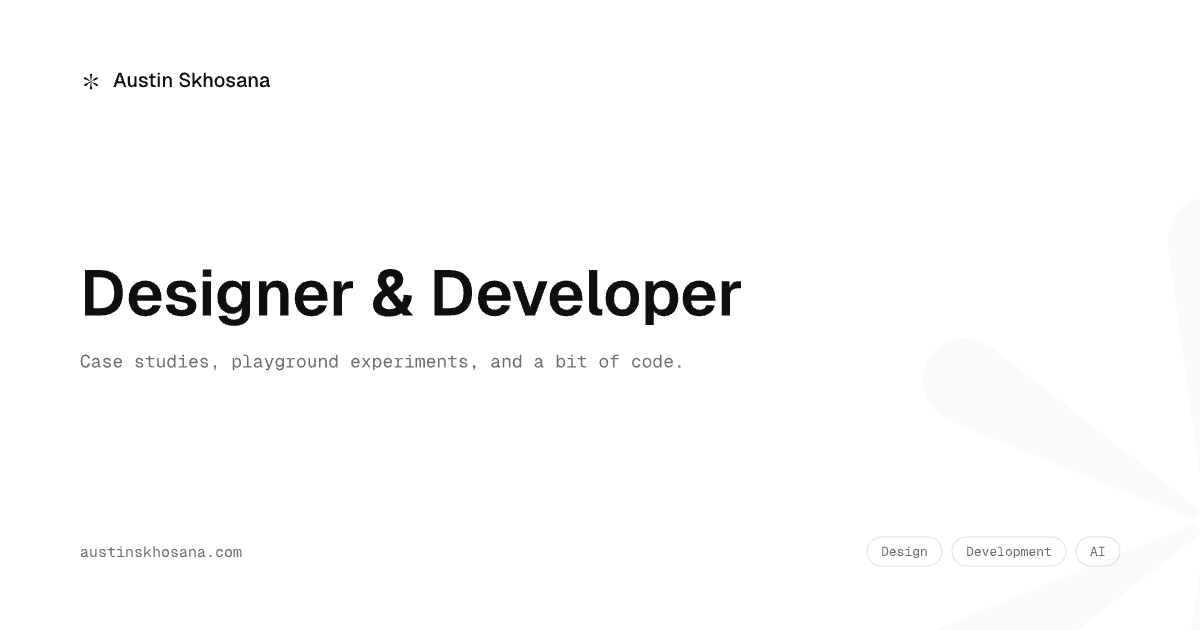
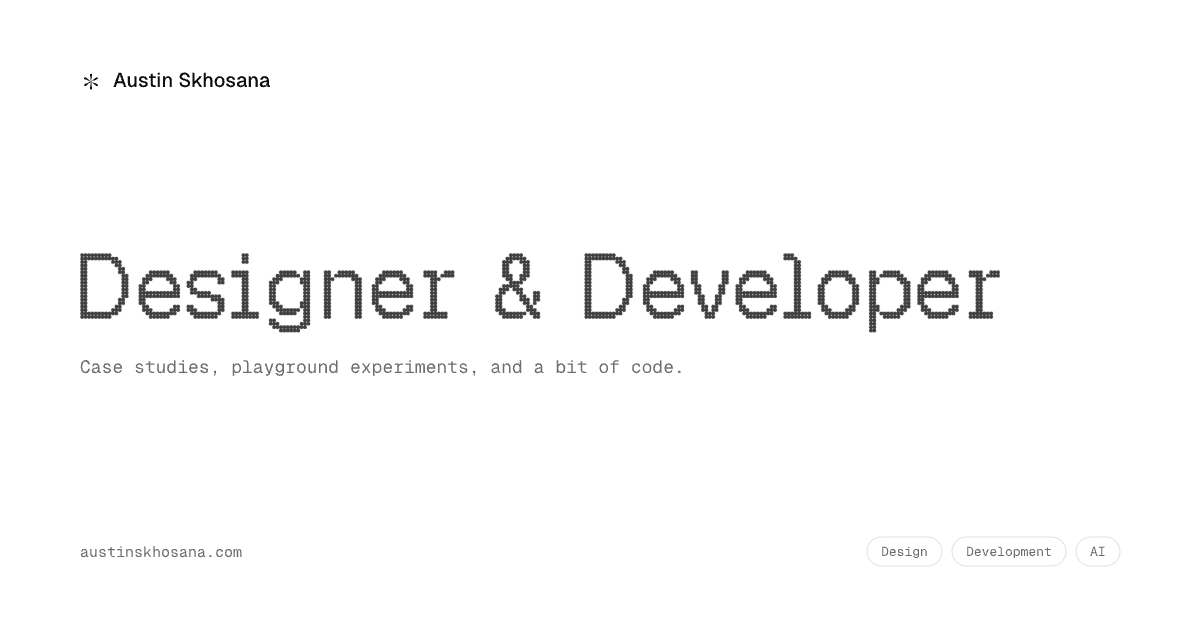
Use Geist Pixel Circle for OG thumbnail headline, add mobile lightbox
Renders the "Designer & Developer" headline with Geist Pixel's Circle
variant (via the geist npm package, rasterized since it's not on
Google Fonts) for the Open Graph thumbnail. Also gives the case study
image lightbox a dedicated full-screen mobile view instead of reusing
the desktop windowed layout.

Changed region(s): [[0.0617, 0.3921, 0.8325, 0.5429], [0.0617, 0.5429, 0.5858, 0.6032]]

diff --git a/src/components/CaseStudyContent.tsx b/src/components/CaseStudyContent.tsx
@@ -11,6 +11,7 @@ import type {
 } from "react";
 import type { Project } from "@/lib/data";
 import { CoverVideo } from "@/components/CoverVideo";
+import { useIsDesktop } from "@/components/windows/useIsDesktop";
 
 type LightboxImage = { src: string; alt: string; width: number; height: number };
 type Rect = { x: number; y: number; width: number; height: number };
@@ -188,6 +189,7 @@ function Lightbox({
   origin: Rect | null;
   onClose: () => void;
 }) {
+  const isDesktop = useIsDesktop();
   const [phase, setPhase] = useState<"entering" | "idle" | "closing">(
     "entering",
   );
@@ -208,15 +210,20 @@ function Lightbox({
     setMountedOrigin(origin);
     setPhase("entering");
     setZoom(100);
-    const layout = computeLayout(image, 100);
-    setRect(
-      clampRect({
-        x: (window.innerWidth - layout.windowWidth) / 2,
-        y: (window.innerHeight - layout.windowHeight) / 2,
-        width: layout.windowWidth,
-        height: layout.windowHeight,
-      }),
-    );
+    // The draggable, resizable window chrome (title bar, zoom controls) is a
+    // desktop-only affordance — mobile gets a plain full-screen image, which
+    // doesn't need a positioned/sized rect at all.
+    if (isDesktop) {
+      const layout = computeLayout(image, 100);
+      setRect(
+        clampRect({
+          x: (window.innerWidth - layout.windowWidth) / 2,
+          y: (window.innerHeight - layout.windowHeight) / 2,
+          width: layout.windowWidth,
+          height: layout.windowHeight,
+        }),
+      );
+    }
   }
 
   useEffect(() => {
@@ -237,7 +244,7 @@ function Lightbox({
     // eslint-disable-next-line react-hooks/exhaustive-deps
   }, [mountedImage, zoom]);
 
-  if (!mountedImage || !rect) return null;
+  if (!mountedImage || (isDesktop && !rect)) return null;
 
   function requestClose() {
     setPhase("closing");
@@ -251,6 +258,43 @@ function Lightbox({
     } else if (phase === "entering") {
       setPhase("idle");
     }
+  }
+
+  if (!isDesktop) {
+    const mobileAnimationStyle: CSSProperties =
+      phase !== "idle"
+        ? {
+            animation: `${phase === "closing" ? "fade-out" : "fade-in"} ${
+              phase === "closing" ? EXIT_DURATION : ENTER_DURATION
+            }ms var(--ease-out) forwards`,
+          }
+        : {};
+
+    return createPortal(
+      <div
+        className="fixed inset-0 z-[100] flex items-center justify-center bg-black/90 p-6"
+        style={mobileAnimationStyle}
+        onClick={requestClose}
+        onAnimationEnd={handleAnimationEnd}
+      >
+        <button
+          type="button"
+          aria-label="Close"
+          onClick={requestClose}
+          className="absolute top-4 right-4 flex h-11 w-11 items-center justify-center rounded-full bg-white/90 text-lg text-foreground shadow-lg transition-opacity hover:opacity-80"
+        >
+          ✕
+        </button>
+        {/* eslint-disable-next-line @next/next/no-img-element */}
+        <img
+          src={mountedImage.src}
+          alt={mountedImage.alt}
+          className="max-h-full max-w-full object-contain"
+          onClick={(e) => e.stopPropagation()}
+        />
+      </div>,
+      document.body,
+    );
   }
 
   function applyZoom(nextZoom: number) {
@@ -282,6 +326,8 @@ function Lightbox({
     dragState.current = null;
     (e.currentTarget as Element).releasePointerCapture(e.pointerId);
   }
+
+  if (!rect) return null;
 
   const layout = computeLayout(mountedImage, zoom);
 
